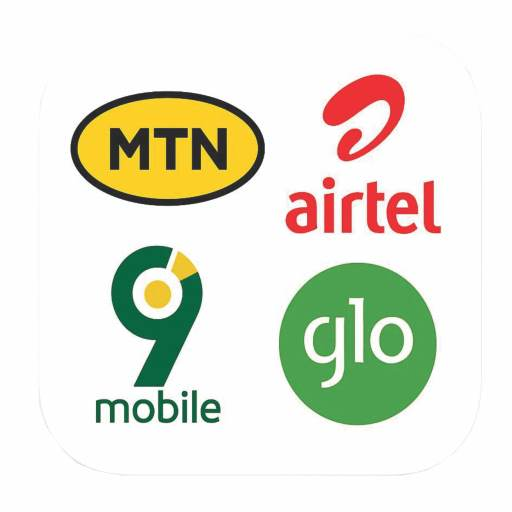
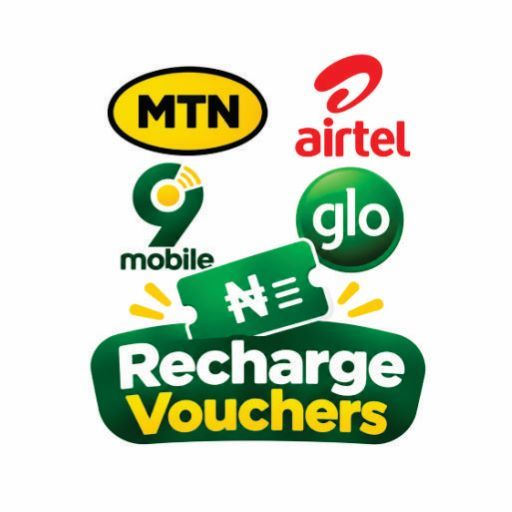
updated images

diff --git a/index.html b/index.html
@@ -57,19 +57,6 @@
     </script>
  
     <style>
-        .labs-sub-label {
-            grid-column: 1 / -1;
-            font-family: 'DM Mono', monospace;
-            font-size: 0.7rem;
-            letter-spacing: 0.12em;
-            text-transform: uppercase;
-            color: var(--muted, #888);
-            padding: 0.5rem 0 0.75rem;
-            border-bottom: 1px solid var(--border, #e8e8e8);
-            margin-bottom: 0.25rem;
-        }
-        .labs-sub-label:not(:first-child) { margin-top: 1.5rem; }
- 
         /* GoldCity venture button */
         .goldcity-venture {
             display: inline-flex; align-items: center; gap: 0.55rem;
@@ -99,50 +86,12 @@
             margin-left: 0.2rem;
         }
  
-        /* ── Verse Labs tabs ── */
-        .labs-tabs {
+        /* ── Verse Labs card tags (category / audience) ── */
+        .card-tags {
             display: flex;
-            gap: 0.5rem;
-            margin-bottom: 1.75rem;
-            border-bottom: 1px solid var(--border, #e8e8e8);
-        }
-        .labs-tab-btn {
-            font-family: 'DM Mono', monospace;
-            font-size: 0.72rem;
-            letter-spacing: 0.08em;
-            text-transform: uppercase;
-            background: none;
-            border: none;
-            padding: 0.7rem 0.2rem;
-            margin-right: 1.5rem;
-            color: var(--muted, #888);
-            cursor: pointer;
-            position: relative;
-            transition: color 0.25s;
-        }
-        .labs-tab-btn::after {
-            content: "";
-            position: absolute;
-            left: 0; right: 0; bottom: -1px;
-            height: 2px;
-            background: transparent;
-            transition: background 0.25s;
-        }
-        .labs-tab-btn.active {
-            color: var(--ink, #1a1a1a);
-        }
-        .labs-tab-btn.active::after {
-            background: var(--ink, #1a1a1a);
-        }
-        .labs-tab-panel { display: none; }
-        .labs-tab-panel.active { display: contents; }
- 
-        /* Archive rows reused inside Labs tab */
-        .archive-list-inline {
-            grid-column: 1 / -1;
-            display: flex;
-            flex-direction: column;
-            gap: 0.9rem;
+            flex-wrap: wrap;
+            gap: 0.4rem;
+            margin-bottom: 1.4rem;
         }
     </style>
 </head>
@@ -161,7 +110,7 @@
             <li><a href="#hub">Verse Hub</a></li>
             <li><a href="#labs">Verse Labs</a></li>
             <li><a href="#books">Verse Books</a></li>
-            <li><a href="#labs" onclick="setTimeout(()=>showLabsTab('archive'),350)">Archive</a></li>
+            <li><a href="https://verse-city-tech.vercel.app/vault/index.html" target="_blank" rel="noopener">Archive</a></li>
             <li><a href="#founder">Founder</a></li>
         </ul>
         <button class="hamburger" onclick="toggleMenu()" aria-label="Menu">&#9776;</button>
@@ -172,7 +121,7 @@
     <a href="#hub" onclick="closeMenu()">Verse Hub</a>
     <a href="#labs" onclick="closeMenu()">Verse Labs</a>
     <a href="#books" onclick="closeMenu()">Verse Books</a>
-    <a href="#labs" onclick="closeMenu();setTimeout(()=>showLabsTab('archive'),350)">Archive</a>
+    <a href="https://verse-city-tech.vercel.app/vault/index.html" target="_blank" rel="noopener" onclick="closeMenu()">Archive</a>
     <a href="#founder" onclick="closeMenu()">Founder</a>
 </div>
 
@@ -249,7 +198,6 @@
     <div class="section-inner">
         <div class="district-header reveal">
             <div>
-                <div class="section-eyebrow">District 01</div>
                 <h2 class="section-h2">Verse <em>Hub</em></h2>
                 <p class="section-lead"></p>
             </div>
@@ -257,11 +205,11 @@
         <div class="hub-grid reveal">
            <div class="hub-card">
     <div class="hub-logo">
-        <img src="images/gift_verse_logo.png" alt="Gift Verse"
+        <img src="images/gift_verse_logo.jpg" alt="Gift Verse"
              onerror="this.parentElement.innerHTML='GV'">
     </div>
-    <h3>Gift Verse</h3>
-    <p>A consumer rewards platform where users redeem promo tickets from participating brands to earn Cash Points, which can be accumulated and exchanged for airtime, cash, and other rewards. Brands and businesses use the companion Gift Verse Business app to launch raffle draw or cashback campaigns, issue digital promo tickets, and track performance — one ecosystem, serving both sides of the reward.</p>
+    <h3>Gift Coupon</h3>
+    <p>A consumer rewards platform where users redeem promo tickets from participating brands to earn Cash Points, which can be accumulated and exchanged for airtime, cash, and other rewards.</p>
     <div class="hub-btns">
         <a href="https://play.google.com/store/apps/details?id=com.versecitytech.giftverse" target="_blank" class="h-btn fill">
             <i class="fab fa-google-play"></i> Play Store · Customers
@@ -277,7 +225,7 @@
                     <img src="images/recharge_ng.jpg" alt="Recharge Verse"
                          onerror="this.parentElement.innerHTML='RV'">
                 </div>
-                <h3>Recharge Verse</h3>
+                <h3>Recharge Voucher</h3>
                 <p>Simplified airtime voucher purchases for Nigerians. Instantly buy recharge pins for MTN, Airtel, 9Mobile, and Glo through a fast, secure platform. No stress — top up in seconds from anywhere.</p>
                 <div class="hub-btns">
                     <a href="https://play.google.com/store/apps/details?id=com.versecitytech.mtnairtelrechargecards" target="_blank" class="h-btn fill">
@@ -289,13 +237,15 @@
 
             <div class="hub-card">
                 <div class="hub-logo">
-                    <img src="images/secure_deals.jpg" alt="Secure Deals"
+                    <img src="images/secure_deals.png" alt="Secure Deals"
                          onerror="this.parentElement.innerHTML='SD'">
                 </div>
                 <h3>Secure Deals</h3>
-                <p>An escrow-based transaction platform that helps buyers and sellers complete deals safely. Buyers pay through the platform, while the money is secured until the seller delivers the goods or services and the buyer confirms receipt. Secure Deals then reviews and approves the transaction before releasing the payment to the seller — making everyday transactions safer, simpler, and more trustworthy.</p>
+                <p>An escrow-based transaction platform that helps buyers and sellers complete deals safely. Buyers pay through the platform, while the money is secured until the seller delivers the goods or services and the buyer confirms receipt. </p>
                 <div class="hub-btns">
-                    <span class="h-btn line" style="cursor:default;opacity:0.6;"><i class="fas fa-clock"></i> In Development</span>
+                    <a href="https://play.google.com/store/apps/details?id=com.versecitytech.versestore" target="_blank" class="h-btn fill">
+                        <i class="fab fa-google-play"></i> Play Store
+                    </a>
                 </div>
             </div>
 
@@ -308,115 +258,95 @@
     <div class="section-inner">
         <div class="district-header reveal">
             <div>
-                <div class="section-eyebrow">District 02</div>
                 <h2 class="section-h2">Verse <em>Labs</em></h2>
                 <p class="section-lead"></p>
             </div>
         </div>
 
-        <div class="labs-tabs reveal">
-            <button class="labs-tab-btn active" id="labs-tab-active-btn" onclick="showLabsTab('active')">Active Projects</button>
-            <button class="labs-tab-btn" id="labs-tab-archive-btn" onclick="showLabsTab('archive')">Archive</button>
-        </div>
-
-        <div class="labs-tab-panel active" id="labs-panel-active">
-            <div class="app-grid reveal">
-                <div class="labs-sub-label">Learning &amp; Academic</div>
-                <div class="app-card">
-                    <div class="hub-logo">
-                    <img src="images/campus_logo .jpg" alt="Campus Verse"
-                         onerror="this.parentElement.innerHTML='CV'">
+        <div class="app-grid reveal">
+            <div class="app-card">
+                <div class="hub-logo">
+                <img src="images/campus_logo .jpg" alt="Campus Verse"
+                     onerror="this.parentElement.innerHTML='CV'">
+            </div>
+                <h4>Campus Verse</h4>
+                <p>An academic companion built for Nigerian students — campus resources, study tools, and a community layer for university life.</p>
+                <div class="card-tags">
+                    <span class="app-tag navy">Social &amp; Academic</span>
+                    <span class="app-tag gold">Nigeria</span>
                 </div>
-                    <h4>Campus Verse</h4>
-                    <p>An academic companion built for Nigerian students — campus resources, study tools, and a community layer for university life.</p>
-                    <div class="hub-btns">
-                        <a href="https://play.google.com/store/apps/details?id=com.versecitytech.campusverse&hl=en" target="_blank" class="h-btn fill">
-                            <i class="fab fa-google-play"></i> Play Store
-                        </a>
-                    </div>
-                </div>
-                <div class="app-card">
-                    <div class="hub-logo">
-                    <img src="images/mock_exams_logo.jpg" alt="Mock Practice Pro"
-                         onerror="this.parentElement.innerHTML='ME'">
-                </div>                    <h4>Mock Practice Pro</h4>
-                    <p>Exam preparation done right. Practice with past questions, timed sessions, and subject-specific drills designed for WAEC, JAMB, and beyond.</p>
-                    <div class="hub-btns">
-                        <a href="https://play.google.com/store/apps/details?id=com.versecitytech.mockexamsverse&hl=en" target="_blank" class="h-btn fill">
-                            <i class="fab fa-google-play"></i> Play Store
-                        </a>
-                    </div>
-                </div>
-                <div class="labs-sub-label">Social &amp; Connection</div>
-                <div class="app-card">
-                    <div class="hub-logo">
-                    <img src="images/spark_conversation_card.jpg" alt="Spark Conversation"
-                         onerror="this.parentElement.innerHTML='SC'">
-                </div>
-                    <h4>Spark Conversation Cards</h4>
-                    <p>A digital card deck designed to spark meaningful conversations — for friends, couples, or teams looking to connect beyond the surface.</p>
-                    <div class="hub-btns">
-                        <a href="https://play.google.com/store/apps/details?id=com.versecitytech.conversationcard&hl=en" target="_blank" class="h-btn fill">
-                            <i class="fab fa-google-play"></i> Play Store
-                        </a>
-                    </div>
-                </div>
-                <div class="labs-sub-label">Kids</div>
-                <div class="app-card">
-                    <div class="app-icon">
-                        <img src="images/encarta_logo.png" alt="Neo Encarta Kids"
-                             onerror="this.parentElement.innerHTML='NE'">
-                    </div>
-                    <h4>Neo Encarta Kids</h4>
-                    <p>An interactive knowledge companion for children — exploring science, history, nature, and culture through engaging content built for young curious minds.</p>
-                    <div class="hub-btns">
-                        <a href="https://play.google.com/store/apps/details?id=com.versecitytech.encartakids&hl=en" target="_blank" class="h-btn fill">
-                            <i class="fab fa-google-play"></i> Play Store
-                        </a>
-                    </div>
-                </div>
-                <div class="labs-sub-label">Earth</div>
-                <div class="app-card" style="grid-column:1/-1;">
-                    <div class="hub-logo">
-                        <img src="images/gold_prospector_geo_notes_logo.jpg" alt="Gold Prospector Geo Notes"
-                             onerror="this.parentElement.innerHTML='GP'">
-                    </div>
-                    <h4>Gold Prospector Geo Notes</h4>
-                    <p>Gold Prospector Geo Notes (GPGN) is a geological field notebook for prospectors and geologists. It standardizes the recording of exploration observations with location-based field data, with the long-term goal of using AI to identify geological patterns that can improve mineral exploration and prospectivity prediction.</p>
-                    <div class="hub-btns">
-                        <a href="https://play.google.com/store/apps/details?id=com.versecitytech.prosepctorgeologbook&pcampaignid=web_share" target="_blank" class="h-btn fill">
-                            <i class="fab fa-google-play"></i> Play Store
-                        </a>
-                    </div>
+                <div class="hub-btns">
+                    <a href="https://play.google.com/store/apps/details?id=com.versecitytech.campusverse&hl=en" target="_blank" class="h-btn fill">
+                        <i class="fab fa-google-play"></i> Play Store
+                    </a>
                 </div>
             </div>
-        </div>
-
-        <div class="labs-tab-panel" id="labs-panel-archive">
-            <div class="app-grid reveal">
-                <div class="labs-sub-label">Discontinued Projects</div>
-                <p style="grid-column:1/-1;font-size:0.85rem;line-height:1.8;color:var(--ink-mid);margin:-0.25rem 0 0.75rem;">
-                    Every builder has shelves. These projects were real — they were built, tested, and learned from. They no longer run, but they remain part of the story.
-                </p>
-                <div class="archive-list-inline">
-                    <div class="archive-row">
-                        <div class="archive-info">
-                            <h5>Escrow Platform</h5>
-                            <p>A peer-to-peer escrow service for secure digital transactions. Discontinued due to regulatory complexity and scope.</p>
-                        </div>
-                        <span class="archive-badge">Discontinued</span>
-                    </div>
-                    <div class="archive-row">
-                        <div class="archive-info">
-                            <h5>Psychology Games</h5>
-                            <p>Early prototype of interactive psychology-based mini-games exploring cognitive patterns and personality insights.</p>
-                        </div>
-                        <span class="archive-badge">Discontinued</span>
-                    </div>
+            <div class="app-card">
+                <div class="hub-logo">
+                <img src="images/mock_exams_logo.jpg" alt="Mock Practice Pro"
+                     onerror="this.parentElement.innerHTML='ME'">
+            </div>                    <h4>Mock Practice Pro</h4>
+                <p>Exam preparation done right. Practice with past questions, timed sessions, and subject-specific drills designed for WAEC, JAMB, and beyond.</p>
+                <div class="card-tags">
+                    <span class="app-tag navy">Exam Prep &amp; Education</span>
+                    <span class="app-tag gold">Nigeria</span>
                 </div>
-                <a href="https://verse-city-tech.vercel.app/vault/index.html" target="_blank" class="district-link" style="grid-column:1/-1;margin-top:0.5rem;">
-                    View all in Verse Vault <i class="fas fa-arrow-right" style="font-size:0.6rem;"></i>
-                </a>
+                <div class="hub-btns">
+                    <a href="https://play.google.com/store/apps/details?id=com.versecitytech.mockexamsverse&hl=en" target="_blank" class="h-btn fill">
+                        <i class="fab fa-google-play"></i> Play Store
+                    </a>
+                </div>
+            </div>
+            <div class="app-card">
+                <div class="hub-logo">
+                <img src="images/spark_conversation_card.jpg" alt="Spark Conversation"
+                     onerror="this.parentElement.innerHTML='SC'">
+            </div>
+                <h4>Spark Conversation Cards</h4>
+                <p>A digital card deck designed to spark meaningful conversations — for friends, couples, or teams looking to connect beyond the surface.</p>
+                <div class="card-tags">
+                    <span class="app-tag navy">Social &amp; Connection</span>
+                    <span class="app-tag gold">Worldwide</span>
+                </div>
+                <div class="hub-btns">
+                    <a href="https://play.google.com/store/apps/details?id=com.versecitytech.conversationcard&hl=en" target="_blank" class="h-btn fill">
+                        <i class="fab fa-google-play"></i> Play Store
+                    </a>
+                </div>
+            </div>
+            <div class="app-card">
+                <div class="app-icon">
+                    <img src="images/encarta_logo.png" alt="Neo Encarta Kids"
+                         onerror="this.parentElement.innerHTML='NE'">
+                </div>
+                <h4>Neo Encarta Kids</h4>
+                <p>An interactive knowledge companion for children — exploring science, history, nature, and culture through engaging content built for young curious minds.</p>
+                <div class="card-tags">
+                    <span class="app-tag navy">Kids &amp; Education</span>
+                    <span class="app-tag gold">Worldwide</span>
+                </div>
+                <div class="hub-btns">
+                    <a href="https://play.google.com/store/apps/details?id=com.versecitytech.encartakids&hl=en" target="_blank" class="h-btn fill">
+                        <i class="fab fa-google-play"></i> Play Store
+                    </a>
+                </div>
+            </div>
+            <div class="app-card">
+                <div class="hub-logo">
+                    <img src="images/gold_prospector_geo_notes_logo.jpg" alt="Gold Prospector Geo Notes"
+                         onerror="this.parentElement.innerHTML='GP'">
+                </div>
+                <h4>Gold Prospector Geo Notes</h4>
+                <p>Gold Prospector Geo Notes (GPGN) is a geological field notebook for prospectors and geologists. It standardizes the recording of exploration observations with location-based field data, with the long-term goal of using AI to identify geological patterns that can improve mineral exploration and prospectivity prediction.</p>
+                <div class="card-tags">
+                    <span class="app-tag navy">Field Tools &amp; Geology</span>
+                    <span class="app-tag gold">Specialists — Miners, Geologists &amp; Explorers</span>
+                </div>
+                <div class="hub-btns">
+                    <a href="https://play.google.com/store/apps/details?id=com.versecitytech.prosepctorgeologbook&pcampaignid=web_share" target="_blank" class="h-btn fill">
+                        <i class="fab fa-google-play"></i> Play Store
+                    </a>
+                </div>
             </div>
         </div>
     </div>
@@ -428,7 +358,6 @@
     <div class="section-inner">
         <div class="district-header reveal">
             <div>
-                <div class="section-eyebrow">District 03</div>
                 <h2 class="section-h2">Verse <em>Books</em></h2>
                 <p class="section-lead"></p>
             </div>
@@ -544,7 +473,7 @@
             </div>
             <div class="f-col">
                 <h4>More</h4>
-                <a href="#labs" onclick="setTimeout(()=>showLabsTab('archive'),350)">Verse Archive</a>
+                <a href="https://verse-city-tech.vercel.app/vault/index.html" target="_blank" rel="noopener">Verse Archive</a>
             </div>
             <div class="f-col">
                 <h4>Contact</h4>
@@ -568,23 +497,6 @@
     }
     function closeMenu() {
         document.getElementById('mobileNav').classList.remove('open');
-    }
-    function showLabsTab(which) {
-        const activeBtn = document.getElementById('labs-tab-active-btn');
-        const archiveBtn = document.getElementById('labs-tab-archive-btn');
-        const activePanel = document.getElementById('labs-panel-active');
-        const archivePanel = document.getElementById('labs-panel-archive');
-        if (which === 'archive') {
-            archiveBtn.classList.add('active');
-            activeBtn.classList.remove('active');
-            archivePanel.classList.add('active');
-            activePanel.classList.remove('active');
-        } else {
-            activeBtn.classList.add('active');
-            archiveBtn.classList.remove('active');
-            activePanel.classList.add('active');
-            archivePanel.classList.remove('active');
-        }
     }
     document.querySelectorAll('a[href^="#"]').forEach(a => {
         a.addEventListener('click', e => {
